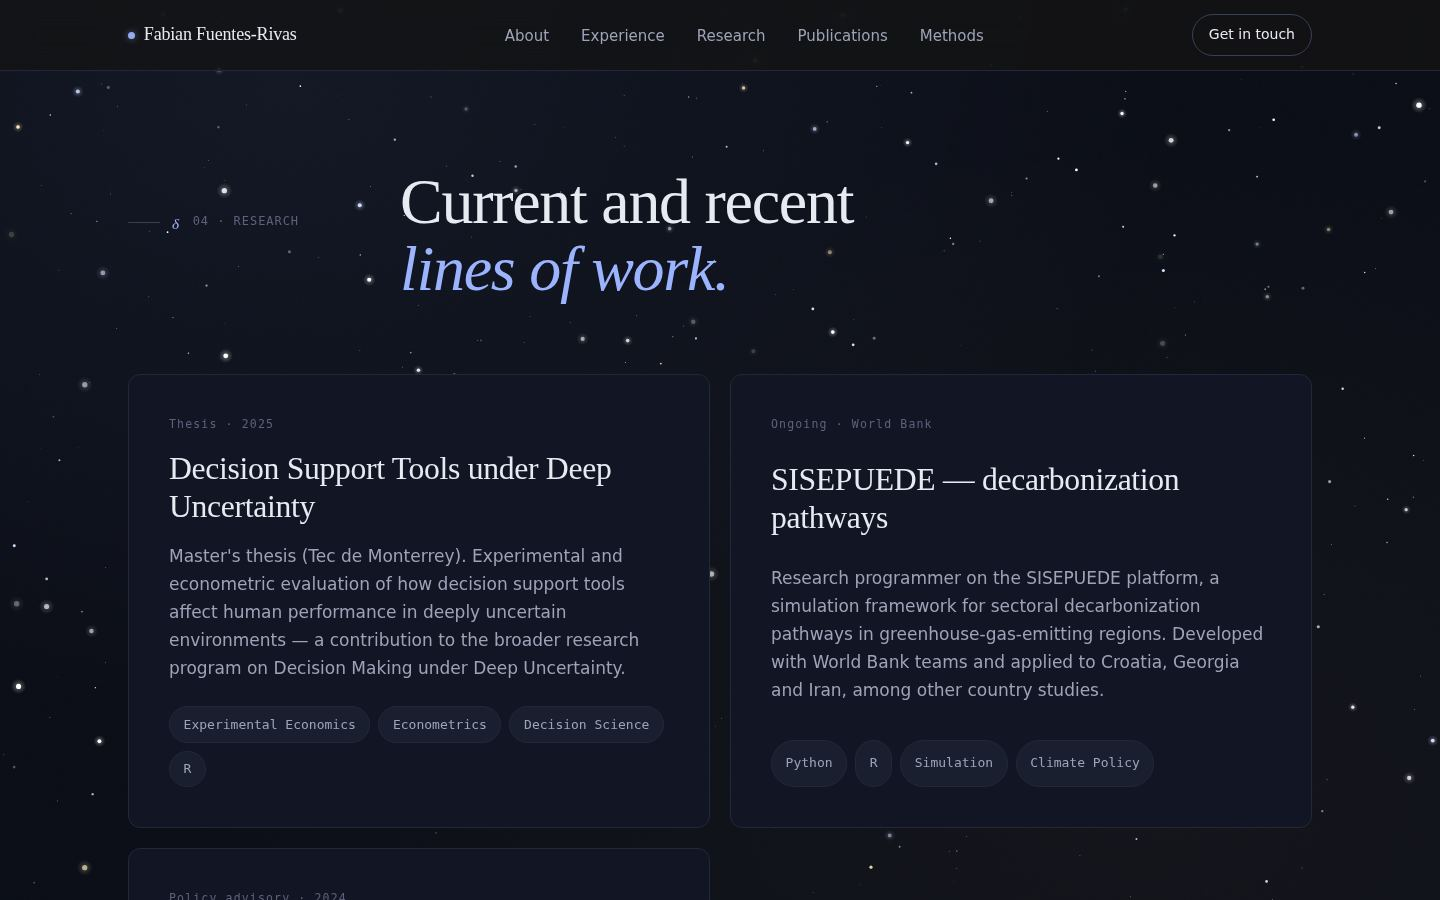
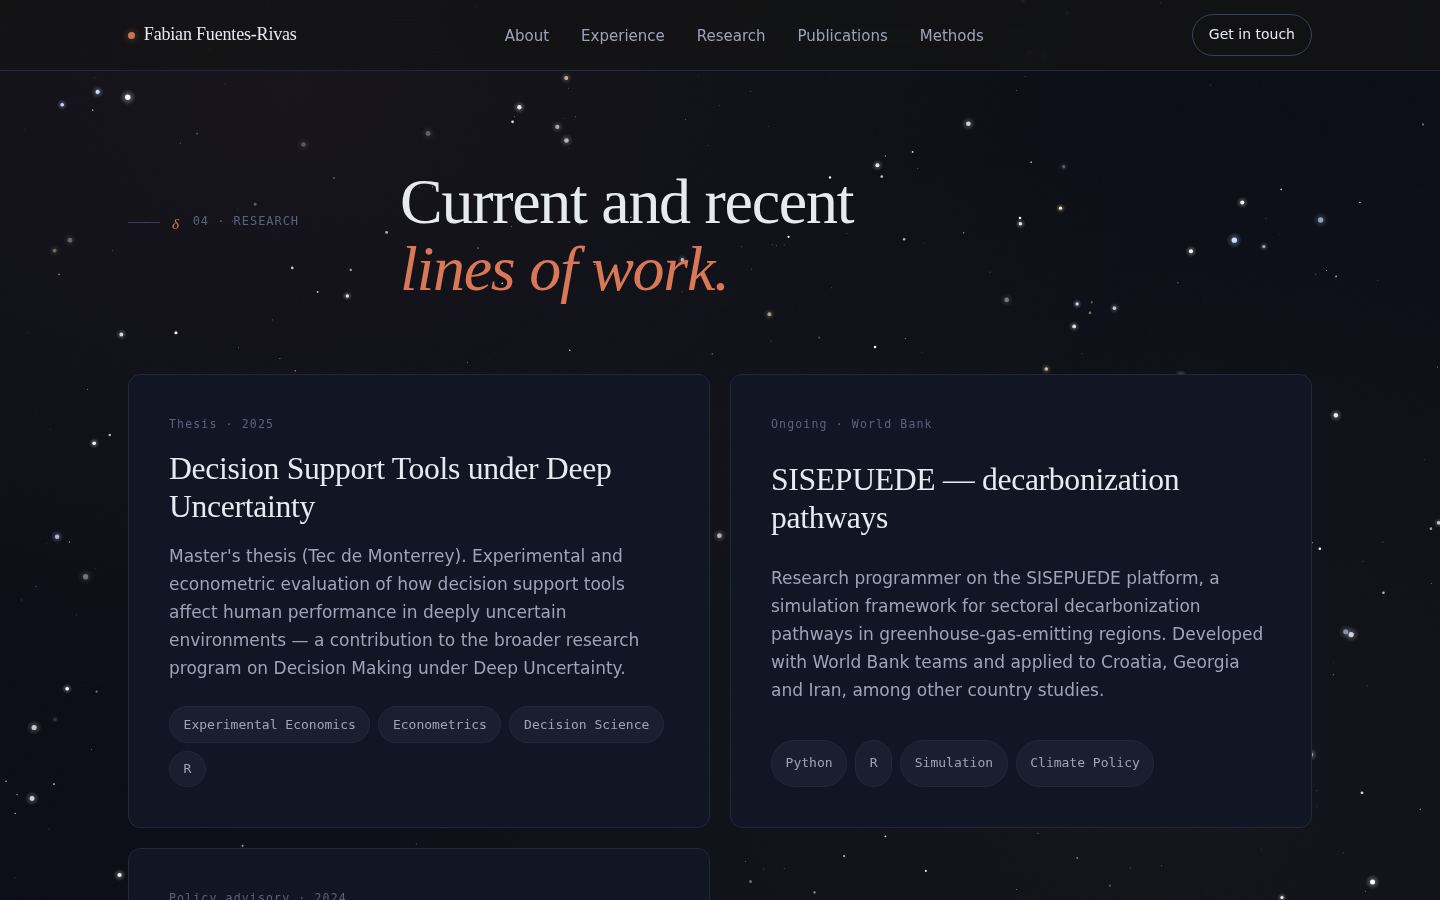
Restore clay accent on top of the deep-space palette
Keep the deep-space background, stellar cream text and realistic star
colours in the canvas (white / blue-white / warm-gold), but switch the
UI accent back to the original clay #d97757. The contrast between the
cool-blue starfield and the warm-orange highlights reads like a sunset
nebula through a telescope — same aesthetic direction, personal
identity preserved.

- --accent back to #d97757, --accent-dim to #c86643, --accent-soft to
  rgba(217,119,87,0.14).
- All blue-tinted UI glows updated: hero radial gradient, nav brand
  dot shadow, hero meta dot shadow, starTwinkle keyframe, constellation
  bright-star filter, portrait hairline border. All now warm.
- The Greek letter glyphs in eyebrows automatically follow the new
  accent token.
- Refresh .preview-jpg/ screenshots.

https://claude.ai/code/session_017qx67pf9b8vBmPZVWaNroJ

Changed region(s): [[0.2812, 0.2489, 0.5, 0.3422], [0.875, 0.9956, 0.9062, 1.0], [0.0625, 0.0933, 0.0938, 0.1244]]

diff --git a/css/style.css b/css/style.css
@@ -19,9 +19,9 @@
   --fg:             #e8eaf2;
   --fg-muted:       #9ea4b8;
   --fg-subtle:      #5b627a;
-  --accent:         #9cb4ff;
-  --accent-dim:     #7a92df;
-  --accent-soft:    rgba(156, 180, 255, 0.14);
+  --accent:         #d97757;
+  --accent-dim:     #c86643;
+  --accent-soft:    rgba(217, 119, 87, 0.14);
   --accent-warm:    #e8c477;
   --border:         #232838;
   --border-strong:  #383f55;
@@ -86,7 +86,7 @@ button { font: inherit; color: inherit; background: none; border: 0; cursor: poi
   /* A subtle deep-field gradient so the edges feel like looking
      toward the galactic plane rather than a flat black. */
   background:
-    radial-gradient(ellipse at 20% 10%, rgba(156, 180, 255, 0.06), transparent 55%),
+    radial-gradient(ellipse at 20% 10%, rgba(217, 119, 87, 0.06), transparent 55%),
     radial-gradient(ellipse at 80% 90%, rgba(232, 196, 119, 0.04), transparent 60%),
     var(--bg);
 }
@@ -208,7 +208,7 @@ section { padding: var(--section-y) 0; position: relative; }
   background: var(--accent);
   display: inline-block;
   transform: translateY(-1px);
-  box-shadow: 0 0 8px rgba(156, 180, 255, 0.55);
+  box-shadow: 0 0 8px rgba(217, 119, 87, 0.55);
   animation: starTwinkle 5s ease-in-out infinite;
 }
 .nav__links {
@@ -305,7 +305,7 @@ section { padding: var(--section-y) 0; position: relative; }
   position: absolute;
   inset: 0;
   background:
-    radial-gradient(60% 50% at 85% 15%, rgba(156, 180, 255, 0.10), transparent 70%),
+    radial-gradient(60% 50% at 85% 15%, rgba(217, 119, 87, 0.10), transparent 70%),
     radial-gradient(40% 40% at 0% 100%, rgba(232, 196, 119, 0.05), transparent 70%);
   pointer-events: none;
   z-index: 0;
@@ -332,13 +332,13 @@ section { padding: var(--section-y) 0; position: relative; }
   height: 6px;
   border-radius: 50%;
   background: var(--accent);
-  box-shadow: 0 0 8px rgba(156, 180, 255, 0.6);
+  box-shadow: 0 0 8px rgba(217, 119, 87, 0.6);
   animation: starTwinkle 4s ease-in-out infinite;
 }
 
 @keyframes starTwinkle {
-  0%, 100% { opacity: 1; box-shadow: 0 0 8px rgba(156, 180, 255, 0.6); }
-  50%      { opacity: 0.55; box-shadow: 0 0 4px rgba(156, 180, 255, 0.3); }
+  0%, 100% { opacity: 1; box-shadow: 0 0 8px rgba(217, 119, 87, 0.6); }
+  50%      { opacity: 0.55; box-shadow: 0 0 4px rgba(217, 119, 87, 0.3); }
 }
 
 /* Constellation decoration — small SVG overlay next to hero */
@@ -383,7 +383,7 @@ section { padding: var(--section-y) 0; position: relative; }
 
 .constellation .c-star--bright {
   fill: var(--accent);
-  filter: drop-shadow(0 0 3px rgba(156, 180, 255, 0.8));
+  filter: drop-shadow(0 0 3px rgba(217, 119, 87, 0.8));
 }
 
 .constellation .c-star:nth-child(3n)  { animation-delay: 0.3s; animation-duration: 6s; }
@@ -459,7 +459,7 @@ section { padding: var(--section-y) 0; position: relative; }
   background: var(--bg-elev);
   box-shadow:
     0 30px 60px -20px rgba(0, 0, 0, 0.7),
-    0 0 0 1px rgba(156, 180, 255, 0.08),
+    0 0 0 1px rgba(217, 119, 87, 0.08),
     inset 0 0 40px rgba(11, 14, 23, 0.35);
   justify-self: end;
 }
